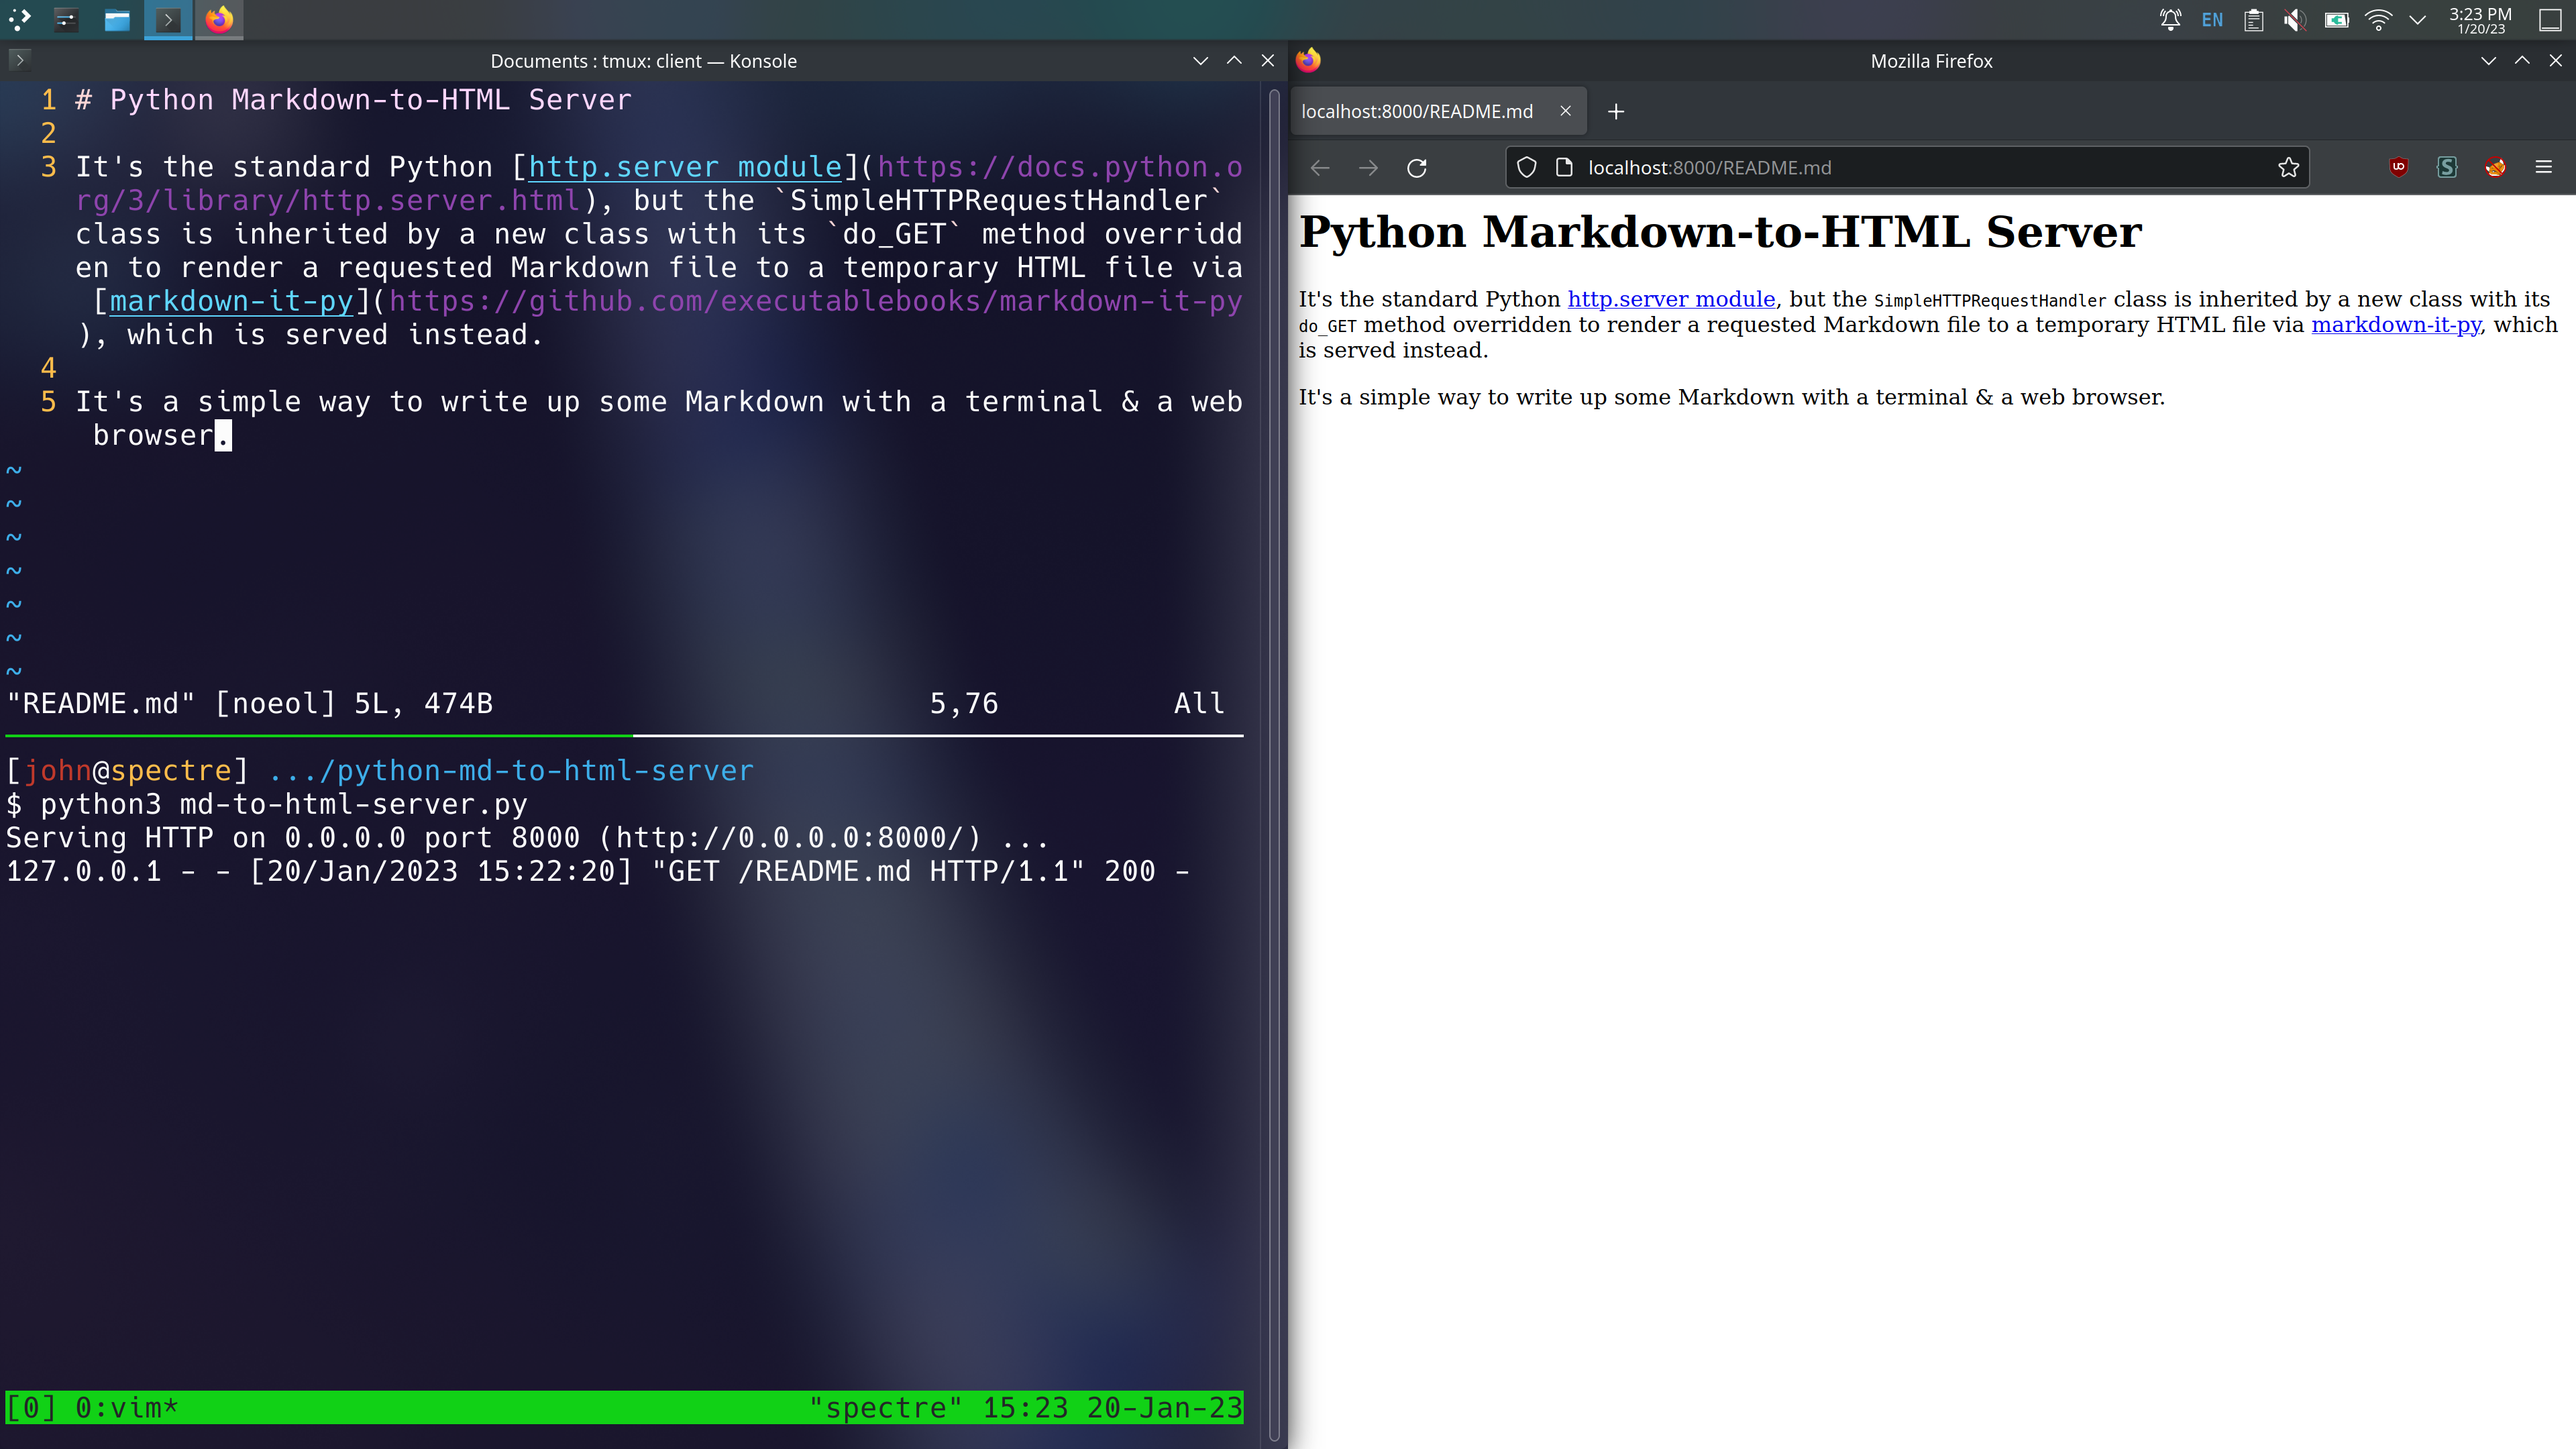
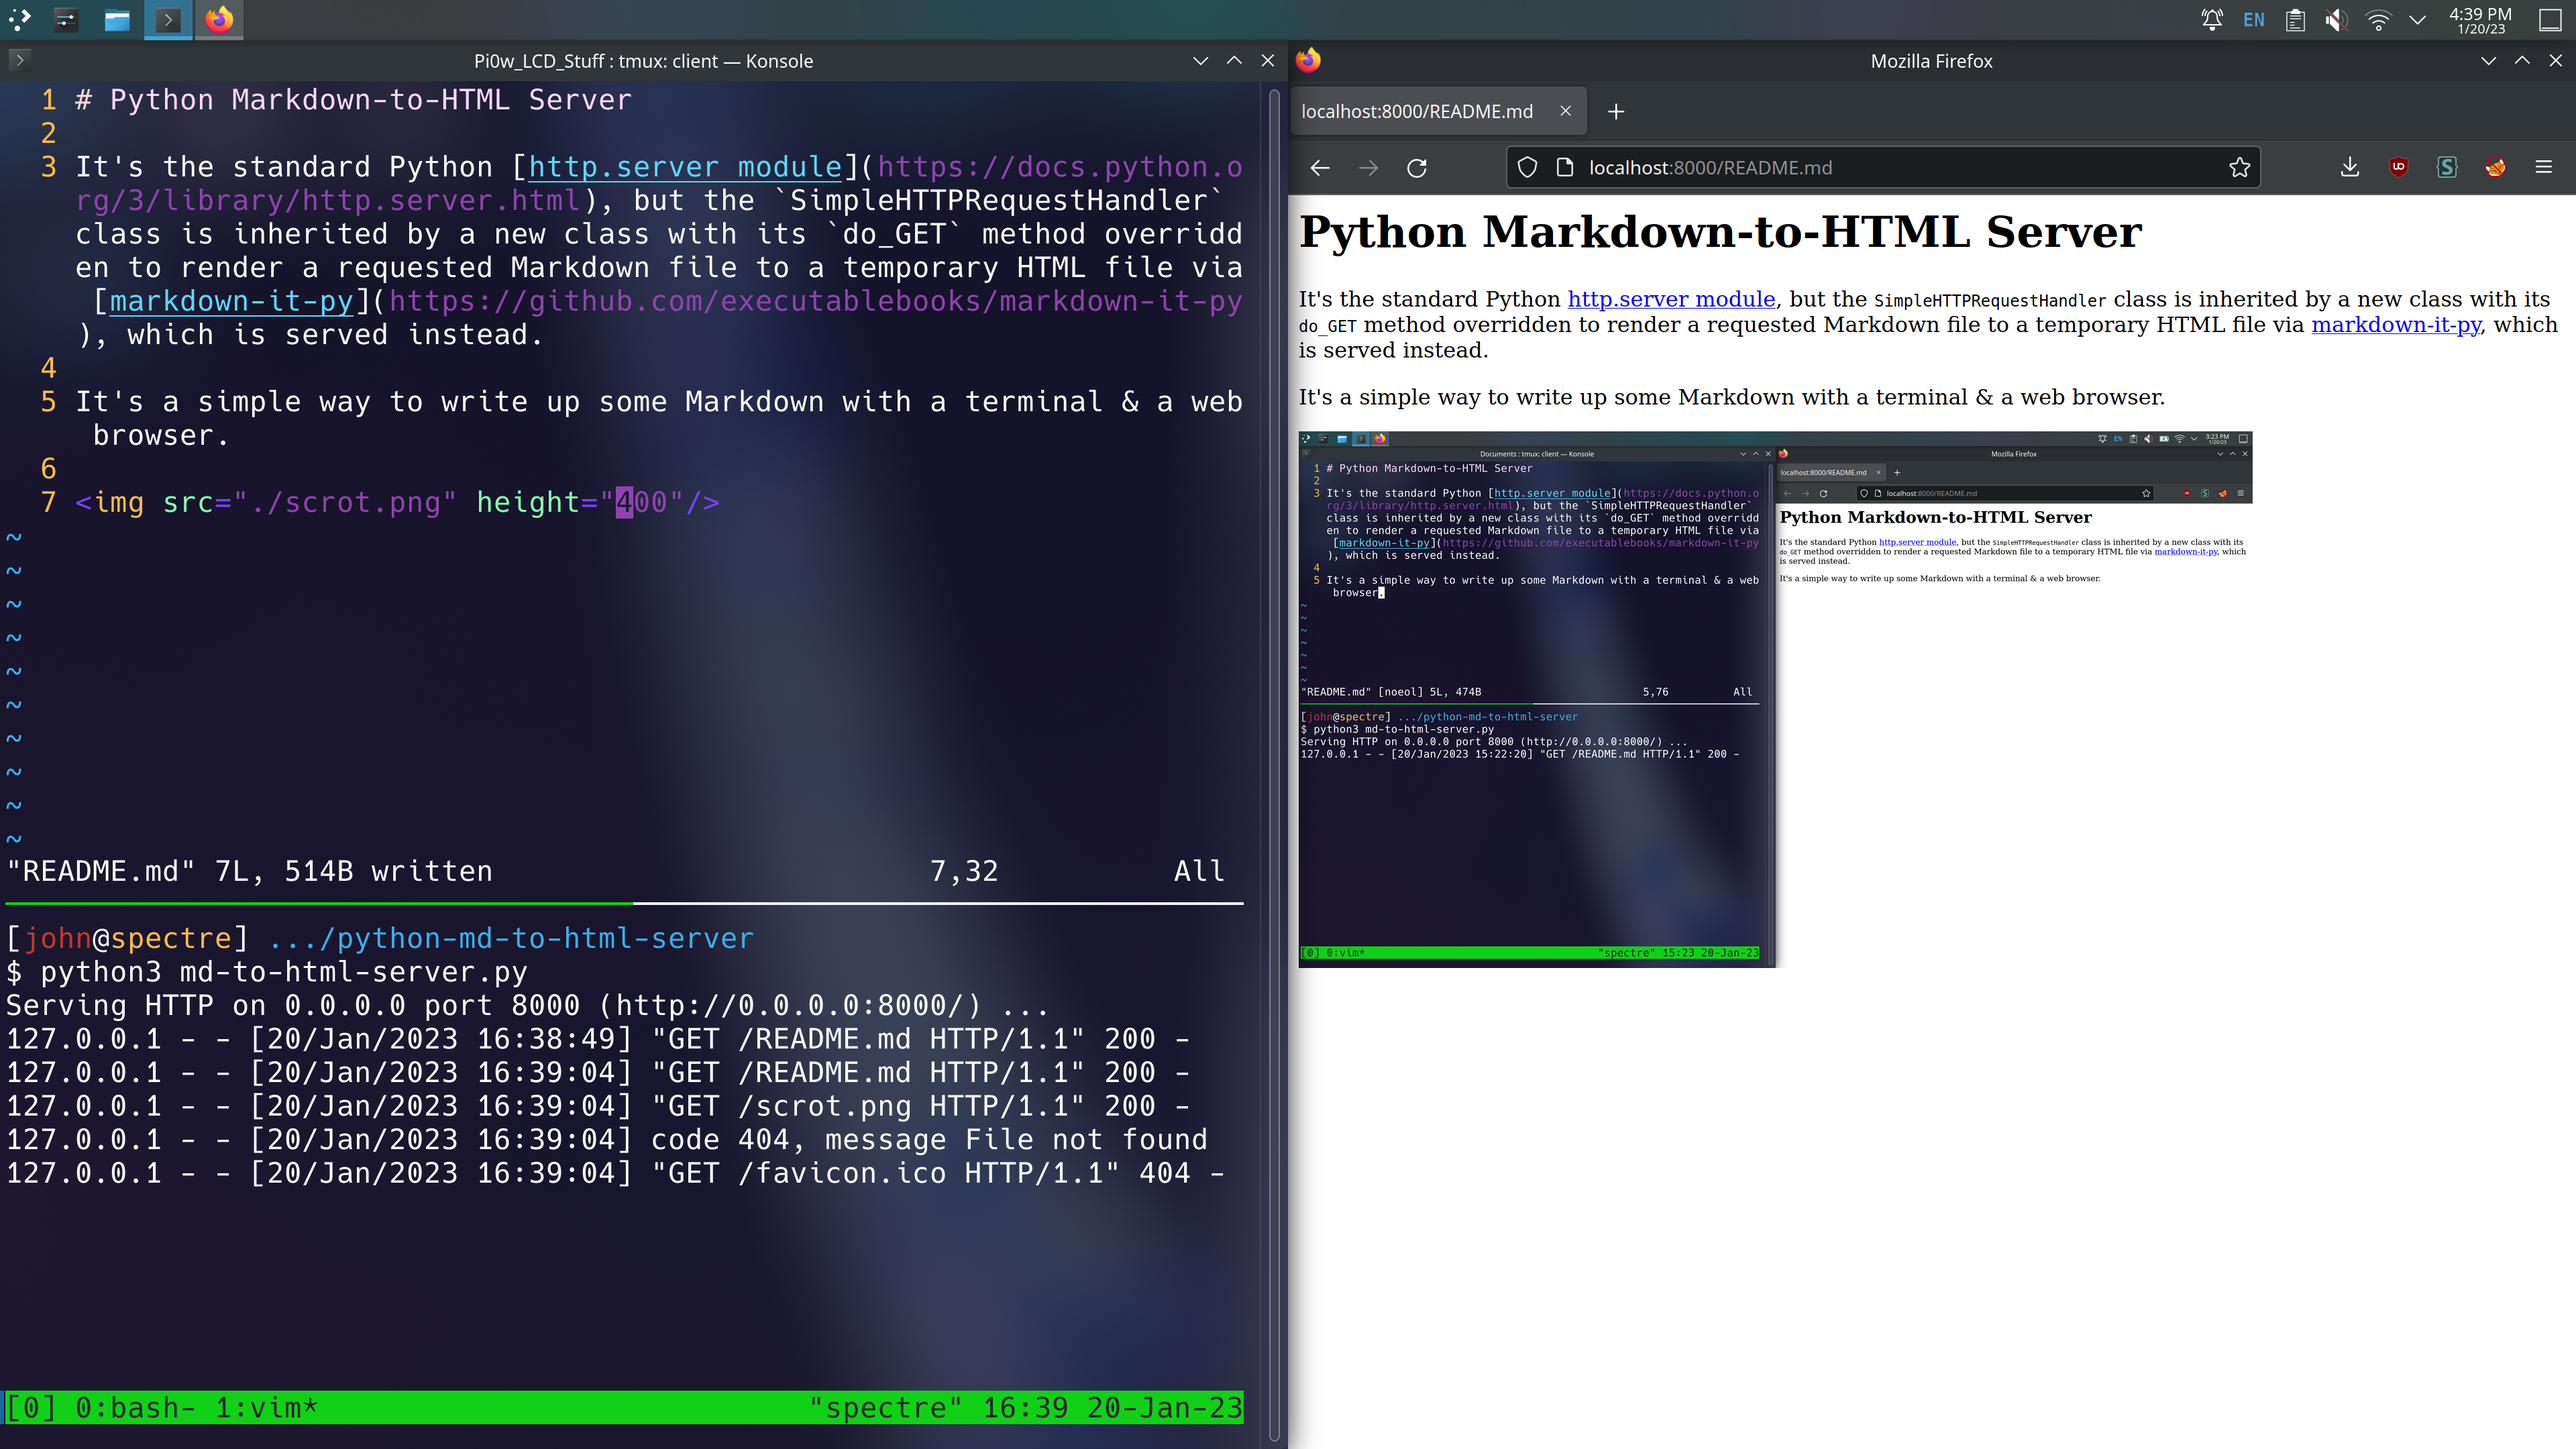
great scrot

diff --git a/README.md b/README.md
@@ -4,4 +4,4 @@ It's the standard Python [http.server module](https://docs.python.org/3/library/
 
 It's a simple way to write up some Markdown with a terminal & a web browser.
 
-<img src="./scrot.png" height="200"/>
+<img src="./scrot.png" height="400"/>
